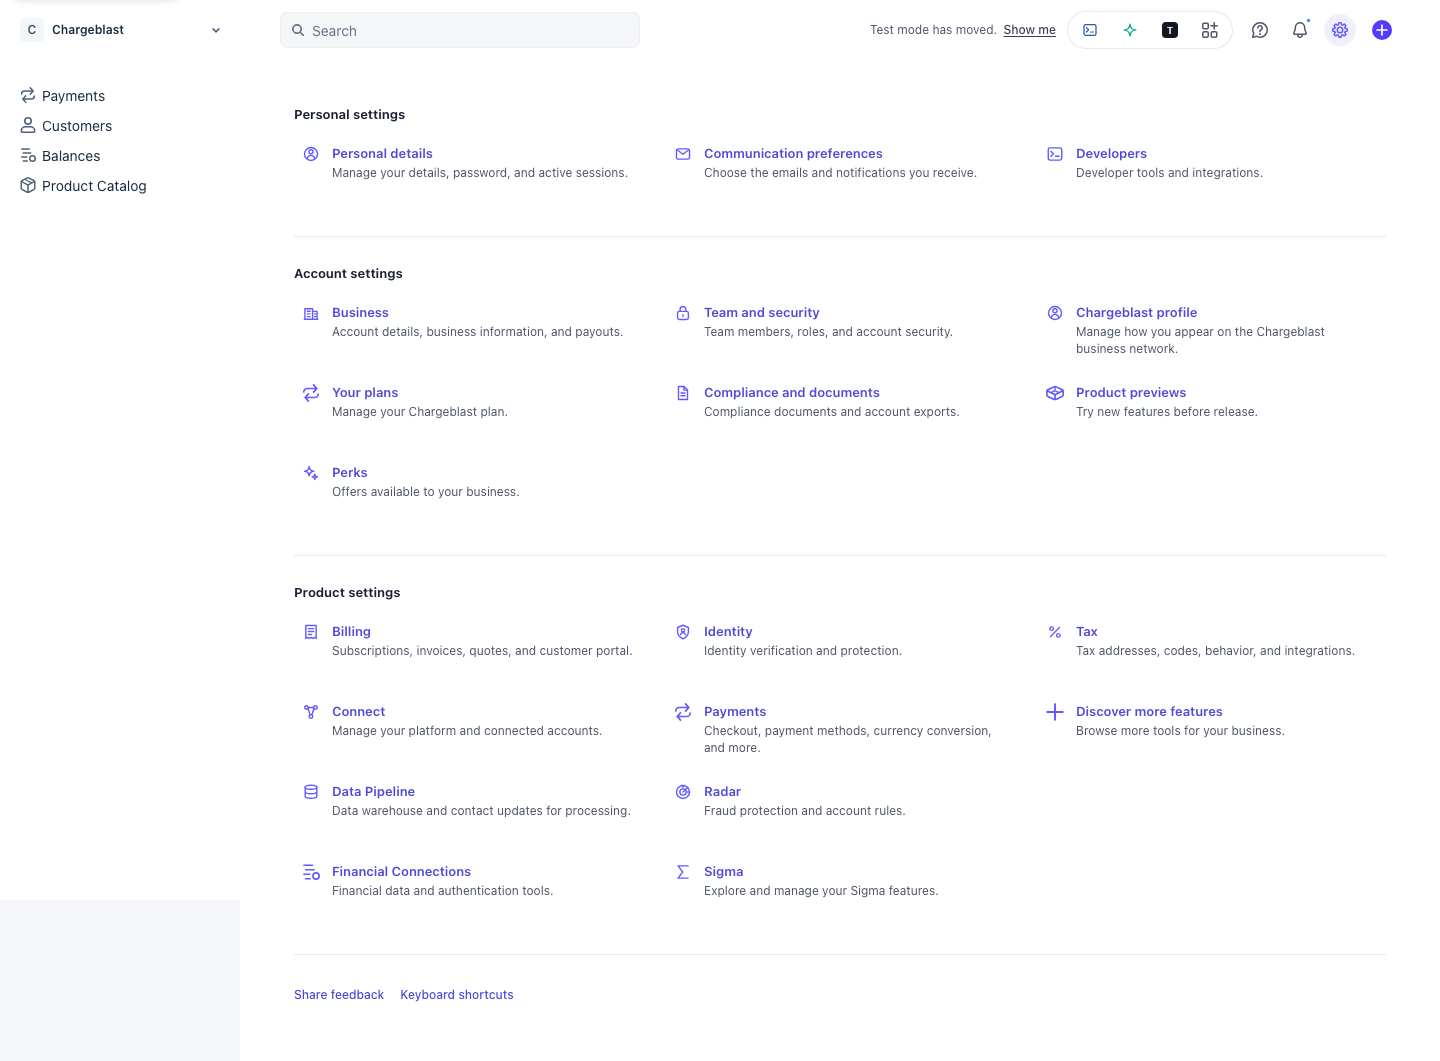
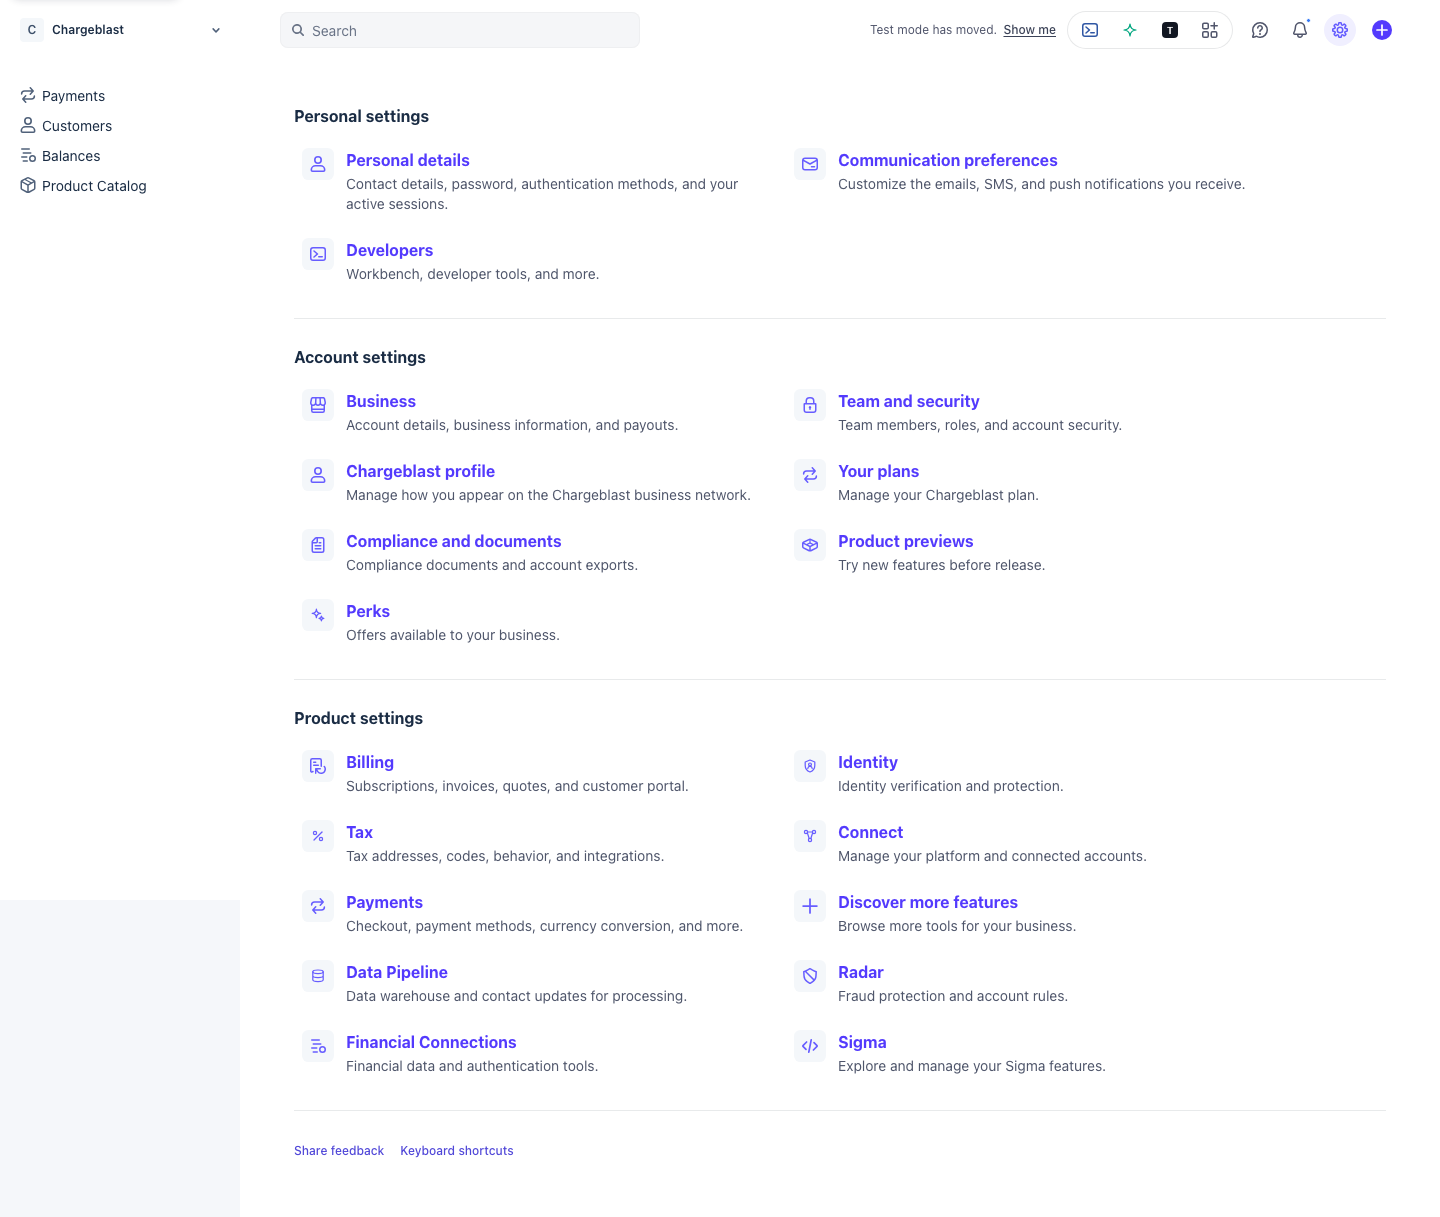
feat(settings): give the settings page Stripe's card treatment
Reworks every settings row to match Stripe, measured off the live page:

- each icon sits in a 32px #F4F7FA rounded tile with a filled #675DFF glyph
- item names grow to 16px/700 in Stripe's #533AFD; section headings to
  16px/700; descriptions to 14px
- two-column grid capped at 480px, packed left, like Stripe's layout
- Personal settings descriptions adopt Stripe's fuller copy (contact
  details / authentication methods, SMS + push, Workbench)

Converts nine outline glyphs to Stripe's filled versions —
profile, communication, terminal, business, security, documents, receipt,
radar, sigma. terminal is shared with the top nav, which now shows the
filled variant too (consistent with the other filled nav icons).

Five rows keep outline glyphs — Perks, Identity, Tax, Connect, Data
Pipeline — because this Stripe account's settings has no equivalent item to
copy a filled version from. They read a touch lighter than the rest.

Three visual baselines move: the top nav's terminal is on every page.

diff --git a/src/app/sidebar/dashboard-icon.html b/src/app/sidebar/dashboard-icon.html
@@ -15,15 +15,22 @@
     </svg>
   }
   @case ('business') {
-    <svg viewBox="0 0 20 20" focusable="false">
-      <path d="M3.25 17V5.25h8.5V17M11.75 8.25h5V17M2.5 17h15" />
-      <path d="M6 8h3M6 11h3M6 14h3M14 11h1.5M14 14h1.5" />
+    <svg viewBox="0 0 16 16" focusable="false" data-filled>
+      <path
+        fill-rule="evenodd"
+        clip-rule="evenodd"
+        d="M14.998 8.19A2.908 2.908 0 0 0 16 6v-.1c0-.316-.031-.631-.094-.94l-.63-3.12-.003-.012c-.124-.524-.35-1.013-.774-1.36C14.07.118 13.545 0 13 0H3c-.545 0-1.07.119-1.499.468-.425.347-.65.835-.774 1.36l-.003.012-.63 3.12A4.75 4.75 0 0 0 0 5.9V6c0 .88.39 1.65 1.002 2.191A.76.76 0 0 0 1 8.25v5.5A2.25 2.25 0 0 0 3.25 16h9.5A2.25 2.25 0 0 0 15 13.75v-5.5c0-.02 0-.04-.002-.06ZM1.564 5.257l.625-3.095c.081-.336.185-.47.26-.53.072-.059.215-.131.551-.131h2.14l-.22 4.333v.019c0 .908-.754 1.667-1.71 1.667C2.206 7.519 1.5 6.78 1.5 6v-.1c0-.216.021-.432.064-.644Zm4.855.613.222-4.37H9.36l.222 4.37C9.57 6.81 8.84 7.518 8 7.518s-1.572-.707-1.58-1.65Zm4.662-.036L10.86 1.5H13c.336 0 .48.072.55.13.075.062.18.195.26.531l.626 3.095c.043.212.064.428.064.644V6c0 .78-.708 1.519-1.71 1.519-.956 0-1.71-.76-1.71-1.667v-.02Zm1.71 3.186a3.228 3.228 0 0 1-2.445-1.114A3.033 3.033 0 0 1 8 9.019a3.033 3.033 0 0 1-2.347-1.114A3.226 3.226 0 0 1 3.21 9.018c-.242 0-.48-.025-.709-.075V11.5h11V8.943c-.23.05-.467.076-.71.076ZM2.5 13.75V13h11v.75a.75.75 0 0 1-.75.75h-9.5a.75.75 0 0 1-.75-.75Z"
+      />
     </svg>
   }
   @case ('communication') {
-    <svg viewBox="0 0 20 20" focusable="false">
-      <rect x="2.75" y="4.25" width="14.5" height="11.5" rx="2" />
-      <path d="m3.5 5.25 6.5 5 6.5-5" />
+    <svg viewBox="0 0 16 16" focusable="false" data-filled>
+      <path d="M8.75 10.762a.75.75 0 0 1 .75-.75h3a.75.75 0 0 1 0 1.5h-3a.75.75 0 0 1-.75-.75Z" />
+      <path
+        fill-rule="evenodd"
+        clip-rule="evenodd"
+        d="M3 1.512a3 3 0 0 0-3 3v7a3 3 0 0 0 3 3h10a3 3 0 0 0 3-3v-7a3 3 0 0 0-3-3H3Zm10 1.5H3a1.5 1.5 0 0 0-1.307.763c.055.015.11.036.162.065l6.026 3.244a.25.25 0 0 0 .237 0l6.026-3.244a.752.752 0 0 1 .163-.065A1.5 1.5 0 0 0 13 3.012Zm1.5 2.34L8.83 8.405a1.75 1.75 0 0 1-1.66 0L1.5 5.352v6.16a1.5 1.5 0 0 0 1.5 1.5h10a1.5 1.5 0 0 0 1.5-1.5v-6.16Z"
+      />
     </svg>
   }
   @case ('connect') {
@@ -43,9 +50,15 @@
     </svg>
   }
   @case ('documents') {
-    <svg viewBox="0 0 20 20" focusable="false">
-      <path d="M5 2.75h6l4 4v10.5H5V2.75Z" />
-      <path d="M11 2.75v4h4M7.75 10h4.5M7.75 13h4.5" />
+    <svg viewBox="0 0 16 16" focusable="false" data-filled>
+      <path
+        d="M5.25 11a.75.75 0 0 0 0 1.5h5.5a.75.75 0 0 0 0-1.5h-5.5ZM4.5 8.75A.75.75 0 0 1 5.25 8h5.5a.75.75 0 0 1 0 1.5h-5.5a.75.75 0 0 1-.75-.75ZM9.25 5a.75.75 0 0 0 0 1.5h1.5a.75.75 0 0 0 0-1.5h-1.5Z"
+      />
+      <path
+        fill-rule="evenodd"
+        clip-rule="evenodd"
+        d="M14.5 13.5v-11A2.5 2.5 0 0 0 12 0H6.328a2 2 0 0 0-1.414.586L2.086 3.414A2 2 0 0 0 1.5 4.828V13.5A2.5 2.5 0 0 0 4 16h8a2.5 2.5 0 0 0 2.5-2.5ZM13 2.5a1 1 0 0 0-1-1H8v3.25A1.75 1.75 0 0 1 6.25 6.5H3v7a1 1 0 0 0 1 1h8a1 1 0 0 0 1-1v-11Zm-6.672-1H6.5v3.25a.25.25 0 0 1-.25.25H3v-.172a.5.5 0 0 1 .146-.353l2.829-2.829a.5.5 0 0 1 .353-.146Z"
+      />
     </svg>
   }
   @case ('help') {
@@ -70,34 +83,48 @@
     </svg>
   }
   @case ('profile') {
-    <svg viewBox="0 0 20 20" focusable="false">
-      <circle cx="10" cy="10" r="7.25" />
-      <circle cx="10" cy="7.5" r="2.25" />
-      <path d="M5.75 15c.65-2.35 2.05-3.45 4.25-3.45s3.6 1.1 4.25 3.45" />
+    <svg viewBox="0 0 16 16" focusable="false" data-filled>
+      <path
+        fill-rule="evenodd"
+        clip-rule="evenodd"
+        d="M2.5 14.4h11a.4.4 0 0 0 .4-.4 3.4 3.4 0 0 0-3.4-3.4h-5A3.4 3.4 0 0 0 2.1 14c0 .22.18.4.4.4Zm0 1.6h11a2 2 0 0 0 2-2 5 5 0 0 0-5-5h-5a5 5 0 0 0-5 5 2 2 0 0 0 2 2ZM8 6.4a2.4 2.4 0 1 0 0-4.8 2.4 2.4 0 0 0 0 4.8ZM8 8a4 4 0 1 0 0-8 4 4 0 0 0 0 8Z"
+      />
     </svg>
   }
   @case ('radar') {
-    <svg viewBox="0 0 20 20" focusable="false">
-      <circle cx="10" cy="10" r="7.25" />
-      <circle cx="10" cy="10" r="3.5" />
-      <path d="M10 10 15.25 5M10 2.75V5M17.25 10H15" />
+    <svg viewBox="0 0 16 16" focusable="false" data-filled>
+      <path
+        fill-rule="evenodd"
+        clip-rule="evenodd"
+        d="m4.828 14.219 2.256 1.504a1.652 1.652 0 0 0 1.832 0l2.256-1.504a8 8 0 0 0 3.55-6.213l.249-4.478c.016-.287-.212-.53-.494-.582C12.747 2.622 9.968.936 8.919.27A1.717 1.717 0 0 0 8 0c-.326 0-.644.096-.92.271-1.048.666-3.826 2.35-5.557 2.675-.282.053-.51.295-.494.582l.25 4.478a8 8 0 0 0 3.55 6.213ZM2.776 7.923 2.57 4.226c.148-.046.296-.096.446-.15l8.197 8.197a6.5 6.5 0 0 1-.873.698l-2.256 1.504a.151.151 0 0 1-.168 0L5.66 12.97a6.5 6.5 0 0 1-2.884-5.048Zm9.4 3.193a6.498 6.498 0 0 0 1.048-3.193l.206-3.697c-.905-.28-1.867-.734-2.683-1.16a37.885 37.885 0 0 1-2.631-1.528A.22.22 0 0 0 8 1.5a.22.22 0 0 0-.116.038 37.88 37.88 0 0 1-2.631 1.528c-.24.125-.49.252-.75.377l7.674 7.673Z"
+      />
     </svg>
   }
   @case ('receipt') {
-    <svg viewBox="0 0 20 20" focusable="false">
-      <path d="M4.25 2.75h11.5v14.5l-2-1.25-1.85 1.25L10 16l-1.9 1.25L6.25 16l-2 1.25V2.75Z" />
-      <path d="M7 6.25h6M7 9.5h6M7 12.75h3.5" />
+    <svg viewBox="0 0 16 16" focusable="false" data-filled>
+      <path
+        d="M0 2.25A2.25 2.25 0 0 1 2.25 0h7.5A2.25 2.25 0 0 1 12 2.25v6a.75.75 0 0 1-1.5 0v-6a.75.75 0 0 0-.75-.75h-7.5a.75.75 0 0 0-.75.75v10.851a.192.192 0 0 0 .277.172l.888-.444a.75.75 0 1 1 .67 1.342l-.887.443A1.69 1.69 0 0 1 0 13.101V2.25Z"
+      />
+      <path
+        d="M5 10.7a.7.7 0 0 1 .7-.7h4.6a.7.7 0 1 1 0 1.4H7.36l.136.237c.098.17.193.336.284.491.283.483.554.907.855 1.263.572.675 1.249 1.109 2.365 1.109 1.18 0 2.038-.423 2.604-1.039.576-.626.896-1.5.896-2.461 0-.99-.42-1.567-.807-1.998a.75.75 0 1 1 1.115-1.004C15.319 8.568 16 9.49 16 11c0 1.288-.43 2.54-1.292 3.476C13.838 15.423 12.57 16 11 16c-1.634 0-2.706-.691-3.51-1.64-.386-.457-.71-.971-1.004-1.472L6.4 12.74v2.56a.7.7 0 1 1-1.4 0v-4.6ZM2.95 4.25a.75.75 0 0 1 .75-.75h2a.75.75 0 0 1 0 1.5h-2a.75.75 0 0 1-.75-.75ZM3.7 6.5a.75.75 0 0 0 0 1.5h4.6a.75.75 0 0 0 0-1.5H3.7Z"
+      />
     </svg>
   }
   @case ('security') {
-    <svg viewBox="0 0 20 20" focusable="false">
-      <rect x="4" y="8.25" width="12" height="9" rx="2" />
-      <path d="M6.75 8.25V6a3.25 3.25 0 0 1 6.5 0v2.25M10 12v1.75" />
+    <svg viewBox="0 0 16 16" focusable="false" data-filled>
+      <path d="M8.75 11.25a1.25 1.25 0 1 0-1.5 0v1a.75.75 0 0 0 1.5 0v-1Z" />
+      <path
+        fill-rule="evenodd"
+        clip-rule="evenodd"
+        d="M3.5 4v2h-1a1 1 0 0 0-1 1v6a3 3 0 0 0 3 3h7a3 3 0 0 0 3-3V7a1 1 0 0 0-1-1h-1V4a4 4 0 0 0-4-4h-1a4 4 0 0 0-4 4ZM11 6V4a2.5 2.5 0 0 0-2.5-2.5h-1A2.5 2.5 0 0 0 5 4v2h6Zm-8 7V7.5h10V13a1.5 1.5 0 0 1-1.5 1.5h-7A1.5 1.5 0 0 1 3 13Z"
+      />
     </svg>
   }
   @case ('sigma') {
-    <svg viewBox="0 0 20 20" focusable="false">
-      <path d="M15.75 3.25H4.5l5.25 6.75-5.25 6.75h11.25" />
+    <svg viewBox="0 0 16 16" focusable="false" data-filled>
+      <path
+        d="M8.365 1.639a.85.85 0 1 1 1.67.323l-2.4 12.4a.85.85 0 1 1-1.67-.323l2.4-12.4ZM5.2 3.399a.85.85 0 0 1 0 1.202L1.803 8l2.8 2.799A.85.85 0 0 1 3.398 12L.395 8.997A1.35 1.35 0 0 1 0 8.043v-.086c0-.358.142-.701.395-.955L4 3.4a.85.85 0 0 1 1.202 0ZM11.399 4a.85.85 0 0 1 1.202 0l3.003 3.003c.254.253.396.596.396.954v.086c0 .358-.142.701-.396.955L12.002 12.6a.85.85 0 1 1-1.202-1.202L14.198 8l-2.799-2.799a.85.85 0 0 1 0-1.202Z"
+      />
     </svg>
   }
   @case ('sparkles') {
@@ -118,9 +145,17 @@
     </svg>
   }
   @case ('terminal') {
-    <svg viewBox="0 0 20 20" focusable="false">
-      <rect x="2.5" y="3.25" width="15" height="13.5" rx="2" />
-      <path d="m5.5 7 2.75 2.75-2.75 2.75M10.5 12.5h4" />
+    <svg viewBox="0 0 16 16" focusable="false" data-filled>
+      <path
+        fill-rule="evenodd"
+        clip-rule="evenodd"
+        d="M13 2.5H3A1.5 1.5 0 0 0 1.5 4v8A1.5 1.5 0 0 0 3 13.5h10a1.5 1.5 0 0 0 1.5-1.5V4A1.5 1.5 0 0 0 13 2.5ZM3 1a3 3 0 0 0-3 3v8a3 3 0 0 0 3 3h10a3 3 0 0 0 3-3V4a3 3 0 0 0-3-3H3Z"
+      />
+      <path
+        fill-rule="evenodd"
+        clip-rule="evenodd"
+        d="M3.43 4.512a.75.75 0 0 1 1.058-.081l3.5 3a.75.75 0 0 1 0 1.138l-3.5 3a.75.75 0 1 1-.976-1.138L6.348 8 3.512 5.57a.75.75 0 0 1-.081-1.058ZM8 10.75a.75.75 0 0 1 .75-.75h3.5a.75.75 0 0 1 0 1.5h-3.5a.75.75 0 0 1-.75-.75Z"
+      />
     </svg>
   }
   @case ('payments') {

diff --git a/src/app/settings-page/settings-page.css b/src/app/settings-page/settings-page.css
@@ -19,17 +19,18 @@
 }
 
 .settings-section h2 {
-  margin-bottom: 10px;
-  color: #1a1f36;
-  font-size: 13px;
-  font-weight: 650;
-  line-height: 20px;
+  margin-bottom: 12px;
+  color: #1a2c44;
+  font-size: 16px;
+  font-weight: 700;
+  line-height: 24px;
 }
 
 .settings-section ul {
   display: grid;
-  grid-template-columns: repeat(3, minmax(0, 1fr));
-  gap: 4px 24px;
+  grid-template-columns: repeat(2, minmax(0, 480px));
+  justify-content: start;
+  gap: 8px 12px;
   margin: 0;
   padding: 0;
   list-style: none;
@@ -45,21 +46,28 @@
 
 .settings-item {
   display: grid;
-  min-height: 76px;
-  grid-template-columns: 20px minmax(0, 1fr);
+  grid-template-columns: 32px minmax(0, 1fr);
   align-items: start;
-  gap: 10px;
-  padding: 10px 8px;
+  gap: 12px;
+  padding: 8px;
   border-radius: 8px;
   text-decoration: none;
   touch-action: manipulation;
 }
 
+.settings-item__icon {
+  display: grid;
+  width: 32px;
+  height: 32px;
+  place-items: center;
+  border-radius: 20%;
+  background: #f4f7fa;
+}
+
 .settings-item app-dashboard-icon {
-  width: 18px;
-  height: 18px;
-  margin-top: 1px;
-  color: #635bff;
+  width: 16px;
+  height: 16px;
+  color: #675dff;
 }
 
 .settings-item__copy,
@@ -69,17 +77,17 @@
 }
 
 .settings-item__name {
-  color: #5148d8;
-  font-size: 13px;
-  font-weight: 600;
-  line-height: 18px;
+  color: #533afd;
+  font-size: 16px;
+  font-weight: 700;
+  line-height: 24px;
 }
 
 .settings-item__description {
   margin-top: 2px;
   color: #4f566b;
-  font-size: 12px;
-  line-height: 17px;
+  font-size: 14px;
+  line-height: 20px;
 }
 
 .settings-item:focus-visible,
@@ -128,12 +136,6 @@
     color: #3229b8;
     text-decoration: underline;
     text-underline-offset: 2px;
-  }
-}
-
-@media (max-width: 1100px) {
-  .settings-section ul {
-    grid-template-columns: repeat(2, minmax(0, 1fr));
   }
 }
 

diff --git a/src/app/settings-page/settings-page.data.ts b/src/app/settings-page/settings-page.data.ts
@@ -18,17 +18,17 @@ export const SETTINGS_SECTIONS: readonly SettingsSection[] = [
     items: [
       {
         name: 'Personal details',
-        description: 'Manage your details, password, and active sessions.',
+        description: 'Contact details, password, authentication methods, and your active sessions.',
         icon: 'profile',
       },
       {
         name: 'Communication preferences',
-        description: 'Choose the emails and notifications you receive.',
+        description: 'Customize the emails, SMS, and push notifications you receive.',
         icon: 'communication',
       },
       {
         name: 'Developers',
-        description: 'Developer tools and integrations.',
+        description: 'Workbench, developer tools, and more.',
         icon: 'terminal',
       },
     ],

diff --git a/src/app/settings-page/settings-page.html b/src/app/settings-page/settings-page.html
@@ -8,7 +8,9 @@
         @for (item of section.items; track item.name) {
           <li [class.settings-section__new-row]="item.startsRow === true">
             <a class="settings-item" routerLink="/mock">
-              <app-dashboard-icon [name]="item.icon" />
+              <span class="settings-item__icon" aria-hidden="true">
+                <app-dashboard-icon [name]="item.icon" />
+              </span>
               <span class="settings-item__copy">
                 <span class="settings-item__name">{{ item.name }}</span>
                 <span class="settings-item__description">{{ item.description }}</span>